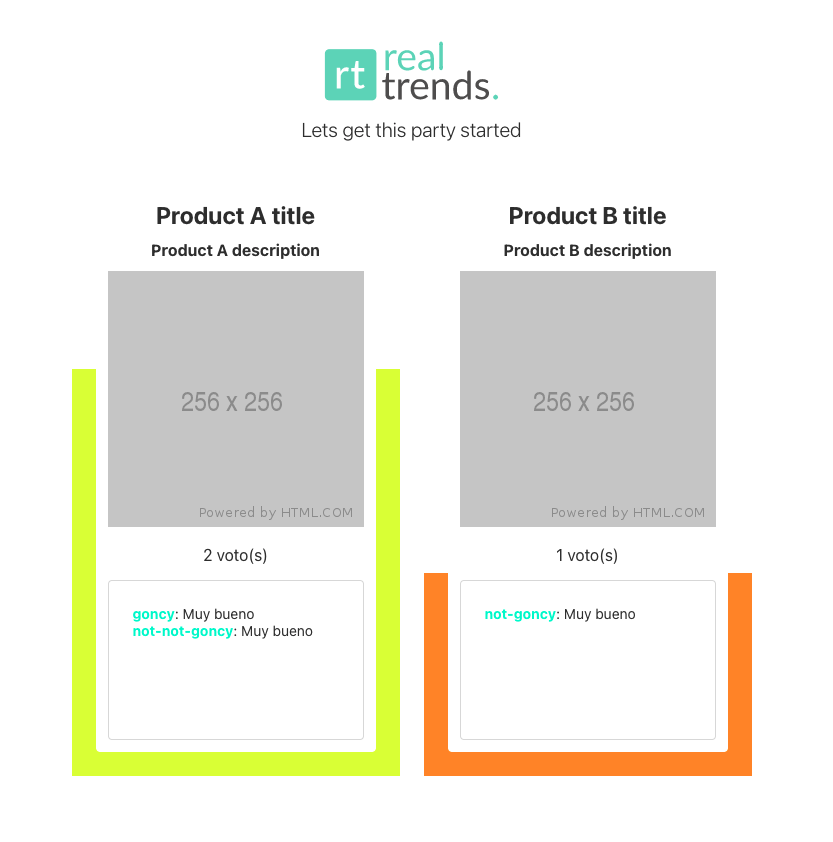
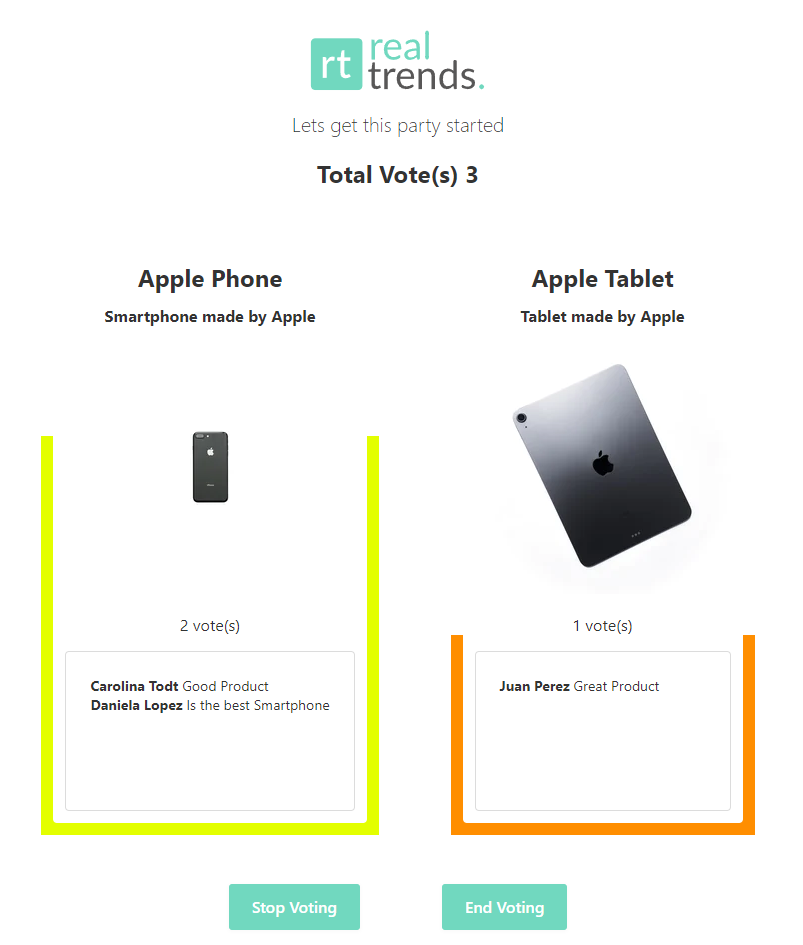
fix(front/back):fixes in the UI

diff --git a/packages/client/src/app/screens/Home/Home.tsx b/packages/client/src/app/screens/Home/Home.tsx
@@ -4,7 +4,7 @@ import SocketIO from "socket.io-client";
 import logo from "~/assets/logo.svg";
 
 import styles from "./Home.module.scss";
-import {Product, Vote, DataServer} from "../../../../../server/src/types";
+import { Product, Vote, DataServer } from "../../../../../server/src/types";
 
 const socket = SocketIO.io("http://localhost:5000");
 
@@ -12,7 +12,6 @@ const Home: React.FC = () => {
   const [products, setProducts] = React.useState<Product[]>([]);
   const [votes, setVotes] = React.useState<Vote[]>([]);
   const [state, setState] = React.useState<"connected" | "disconnected">("connected");
-  const [renders, setRender] = React.useState<number>(0);
 
   const addVote = (key: string) => {
     if (state === "disconnected") return;
@@ -32,28 +31,19 @@ const Home: React.FC = () => {
 
     setVotes(newVotes);
 
-    console.log("subida voto");
-    setRender((renders) => renders + 1);
-    socket.emit("addvote", {product: key, user: userNew, review: reviewNew} as Vote);
+    socket.emit("addvote", { product: key, user: userNew, review: reviewNew } as Vote);
   };
 
   socket.on("stateServer", (stateServer: "connected" | "disconnected") => {
     setState(stateServer);
   });
 
-  let num = 1;
 
   socket.on("state", (data: DataServer) => {
     setProducts(data.products);
     setVotes(data.votes);
   });
 
-
-  React.useEffect(() => {
-    setState("connected");
-    setRender((render) => render + 1);
-    console.log(`use Effect ${num++}`);
-  }, []);
 
   const changeConnection = (status: string) => {
     if (status === "disconnect") {
@@ -80,35 +70,37 @@ const Home: React.FC = () => {
           <img alt="RealTrends" src={logo} width={180} />
         </h1>
         <h3>Lets get this party started</h3>
+        <h2>Total Vote(s) {votes.length}</h2>
       </header>
-     
+   
       <section className={styles.products}>
         {products.length ? (
-        products.map(product => {
-          const productVotes = votes.filter((vote) => vote.product === product.key)
-          const percentage = (productVotes.length * 100) / votes.length;
-          return (
-            <article key={product.key}>
-               <div className={styles.product} onClick={() => addVote(product.key)}>
-              <div>
-                <h3>   {product.title}</h3>
-                <h5>{product.description}</h5>
-                <img src={product.image} alt={product.title} />
-                <p>{productVotes.length} voto(s)</p>
-                <ul>
-                  {productVotes.map(vote =>
-                    <li key={vote.user}>
-                      <b>{vote.user}</b>
-                      <span> {vote.review || '-'}</span>
-                    </li>
-                  )}
-                </ul>
-              </div>
-              <aside style={{ height: `${percentage}%`, backgroundColor: `hsl(${percentage},100%,50%)` }} />
-              </div>
-            </article>
-          )
-        })
+          products.map(product => {
+            const productVotes = votes.filter((vote) => vote.product === product.key)
+            const percentage = (productVotes.length * 100) / votes.length;
+            return (
+        
+              <article key={product.key}>
+                <div className={styles.product} onClick={() => addVote(product.key)}>
+                  <div>
+                    <h3>   {product.title}</h3>
+                    <h5>{product.description}</h5>
+                    <img src={product.image} alt={product.title} />
+                    <p>{productVotes.length} vote(s)</p>
+                    <ul>
+                      {productVotes.map(vote =>
+                        <li key={vote.user}>
+                          <b>{vote.user}</b>
+                          <span> {vote.review || '-'}</span>
+                        </li>
+                      )}
+                    </ul>
+                  </div>
+                  <aside style={{ height: `${percentage}%`, backgroundColor: `hsl(${percentage},100%,50%)` }} />
+                </div>
+              </article>
+            )
+          })
 
         ) : (
           <h3>Loading...</h3>

diff --git a/README.md b/README.md
@@ -4,21 +4,21 @@
 Se debe crear una aplicación de votación realtime.
 
 ## API
-* Debe exponer un servidor de websocket al que se pueda subscribir.
-* Debe emitir eventos cuando haya votos nuevos.
+* Debe exponer un servidor de websocket al que se pueda subscribir.[x]
+* Debe emitir eventos cuando haya votos nuevos.[x]
 
 ## Cliente
-* Debe haber al menos dos productos sobre los cuales se pueda votar.
-* Se debe mostrar un indicador del porcentaje de votos de cada producto.
-* Se debe poder ver quienes fueron los votantes y sus respectivas valoraciónes.
-* Cada usuario puede votar una vez, si vota más de una, el voto se transfiere.
+* Debe haber al menos dos productos sobre los cuales se pueda votar. [x]
+* Se debe mostrar un indicador del porcentaje de votos de cada producto.[x]
+* Se debe poder ver quienes fueron los votantes y sus respectivas valoraciónes.[x]
+* Cada usuario puede votar una vez, si vota más de una, el voto se transfiere.[x]
 
 ## Definiciones técnicas
-* El código de la aplicación debe estar subida a un repositorio de público acceso.
+* El código de la aplicación debe estar subida a un repositorio de público acceso.[x]
 
 ## Puntos extra
 * El usuario puede seleccionar los productos desde el cliente viendo un modal con productos de Mercado Libre.
-* La votación se puede pausar, reanudar y reiniciar desde el cliente.
+* La votación se puede pausar, reanudar y reiniciar desde el cliente.[x]
 
 ![Spec](./spec.png)
 
